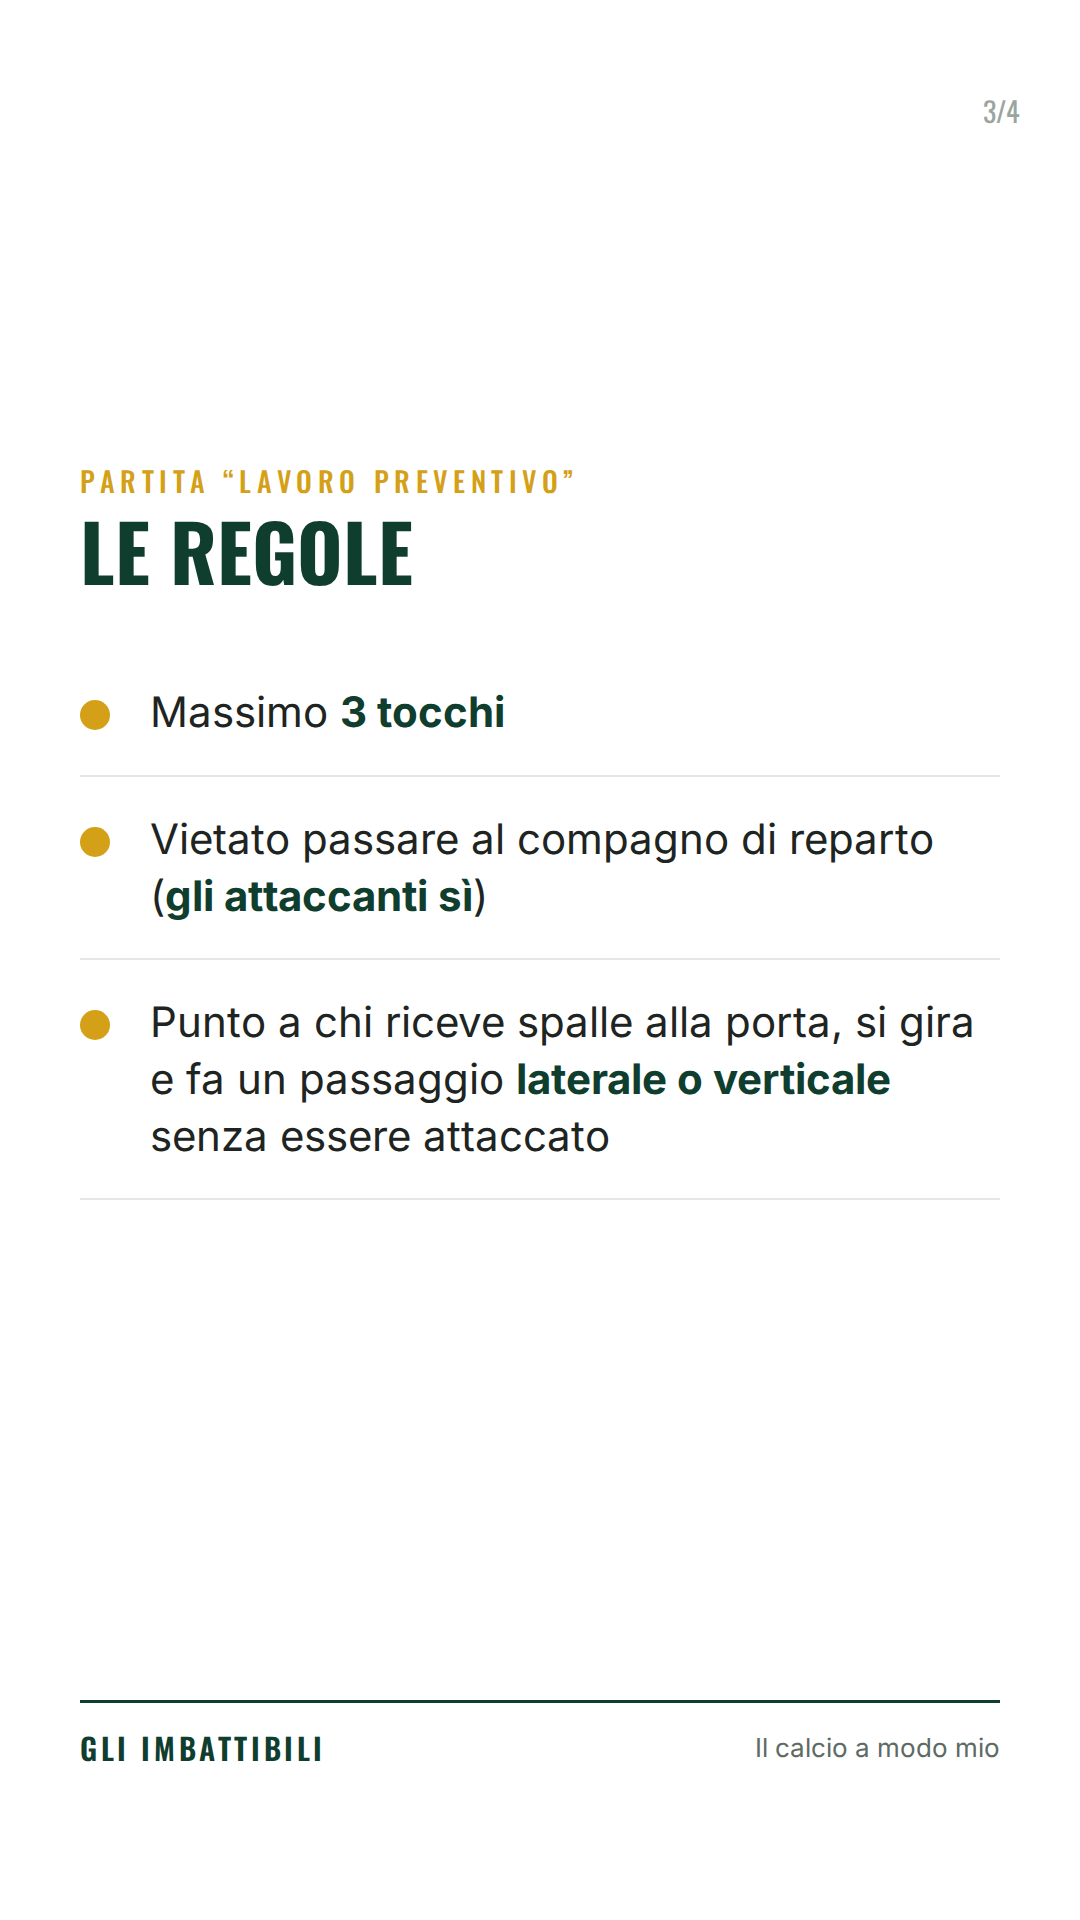
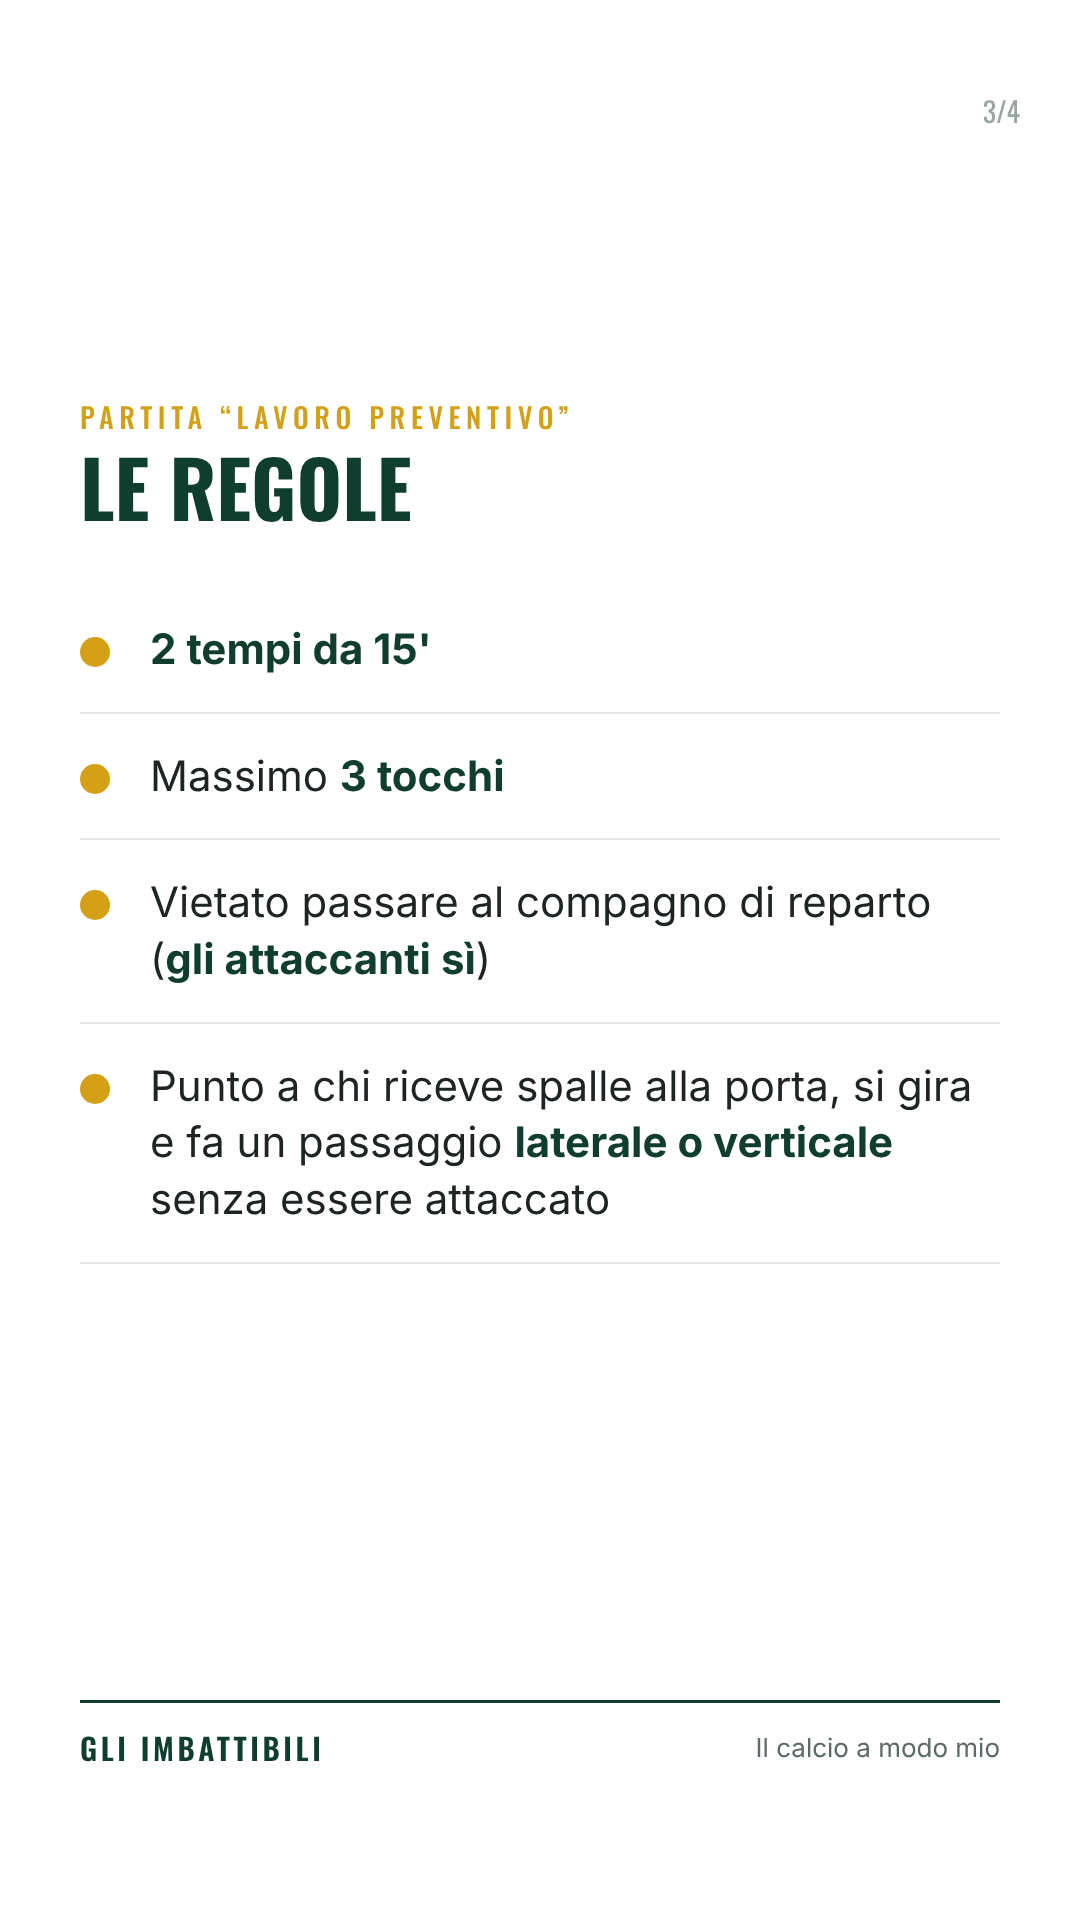
Preventiva 1: aggiunti i 2 tempi da 15' nelle regole
Claude-Session: https://claude.ai/code/session_01C6jnkpg7j78s78of7Dc7AP

diff --git a/marketing/social/post-4x5.html b/marketing/social/post-4x5.html
@@ -136,7 +136,7 @@ h1, h2 { font-family: Oswald, sans-serif; font-weight: 700; text-transform: uppe
   <div class="num">3/4</div>
   <div class="kicker">Partita “lavoro preventivo”</div>
   <h2>Le regole</h2>
-  <ul class="punti"><li>Massimo <b>3 tocchi</b></li><li>Vietato passare al compagno di reparto (<b>gli attaccanti sì</b>)</li><li>Punto a chi riceve spalle alla porta, si gira e fa un passaggio <b>laterale o verticale</b> senza essere attaccato</li></ul>
+  <ul class="punti"><li><b>2 tempi da 15'</b></li><li>Massimo <b>3 tocchi</b></li><li>Vietato passare al compagno di reparto (<b>gli attaccanti sì</b>)</li><li>Punto a chi riceve spalle alla porta, si gira e fa un passaggio <b>laterale o verticale</b> senza essere attaccato</li></ul>
   <div class="marchio"><b>GLI IMBATTIBILI</b><span>Il calcio a modo mio</span></div>
 </section>
 <section class="slide fine">

diff --git a/marketing/social/post-9x16.html b/marketing/social/post-9x16.html
@@ -136,7 +136,7 @@ h1, h2 { font-family: Oswald, sans-serif; font-weight: 700; text-transform: uppe
   <div class="num">3/4</div>
   <div class="kicker">Partita “lavoro preventivo”</div>
   <h2>Le regole</h2>
-  <ul class="punti"><li>Massimo <b>3 tocchi</b></li><li>Vietato passare al compagno di reparto (<b>gli attaccanti sì</b>)</li><li>Punto a chi riceve spalle alla porta, si gira e fa un passaggio <b>laterale o verticale</b> senza essere attaccato</li></ul>
+  <ul class="punti"><li><b>2 tempi da 15'</b></li><li>Massimo <b>3 tocchi</b></li><li>Vietato passare al compagno di reparto (<b>gli attaccanti sì</b>)</li><li>Punto a chi riceve spalle alla porta, si gira e fa un passaggio <b>laterale o verticale</b> senza essere attaccato</li></ul>
   <div class="marchio"><b>GLI IMBATTIBILI</b><span>Il calcio a modo mio</span></div>
 </section>
 <section class="slide fine">

diff --git a/marketing/social/genera-post.py b/marketing/social/genera-post.py
@@ -106,7 +106,8 @@ POST = [
         titolo2="Partita “lavoro preventivo”",
         testo2="10 contro 10 su 50 m. Fa punto chi riceve <b>spalle alla porta</b>, si gira e <b>serve un compagno</b>. Chi difende deve stargli addosso <b>prima</b> che arrivi la palla.",
         titolo3="Le regole",
-        punti=["Massimo <b>3 tocchi</b>",
+        punti=["<b>2 tempi da 15'</b>",
+               "Massimo <b>3 tocchi</b>",
                "Vietato passare al compagno di reparto (<b>gli attaccanti sì</b>)",
                "Punto a chi riceve spalle alla porta, si gira e fa un passaggio <b>laterale o verticale</b> senza essere attaccato"],
     ),
